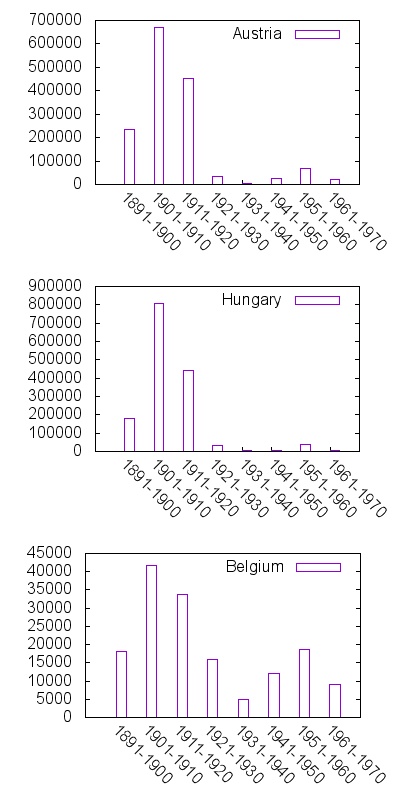
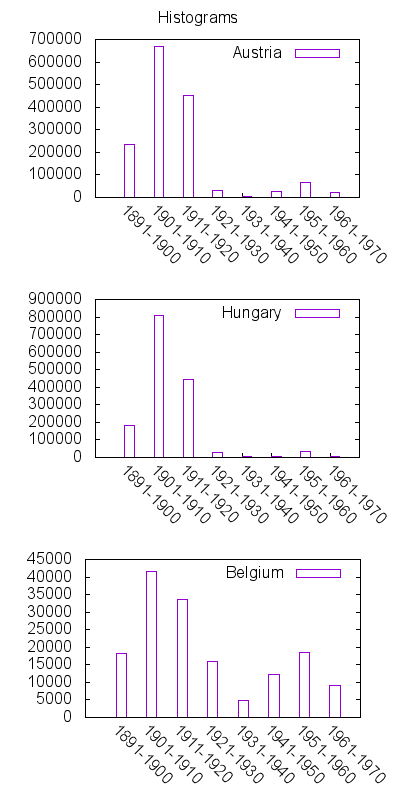
fix multiplot example

diff --git a/examples/multiplot/plot.rb b/examples/multiplot/plot.rb
@@ -17,6 +17,12 @@ plots = (1..3).map do |col|
   y = data.map { |row| row[col] }
   Plot.new([[x, y], using: '2:xtic(1)', title: titles[col]])
 end
-mp = Multiplot.new(*plots, layout: [plots.size, 1], style: 'data histograms', xtics: 'nomirror rotate by -45', term: ['qt', persist: true, size: [400,800]])
+mp = Multiplot.new(
+    *plots,
+    layout: [plots.size, 1],
+    style_data: 'histograms',
+    title: 'Histograms',
+    xtics: 'nomirror rotate by -45',
+    term: ['qt', persist: true, size: [400,800]])
 
 $RSPEC_TEST ? mp.to_png('./gnuplot_gem.png', size: [400,800]) : mp.plot
